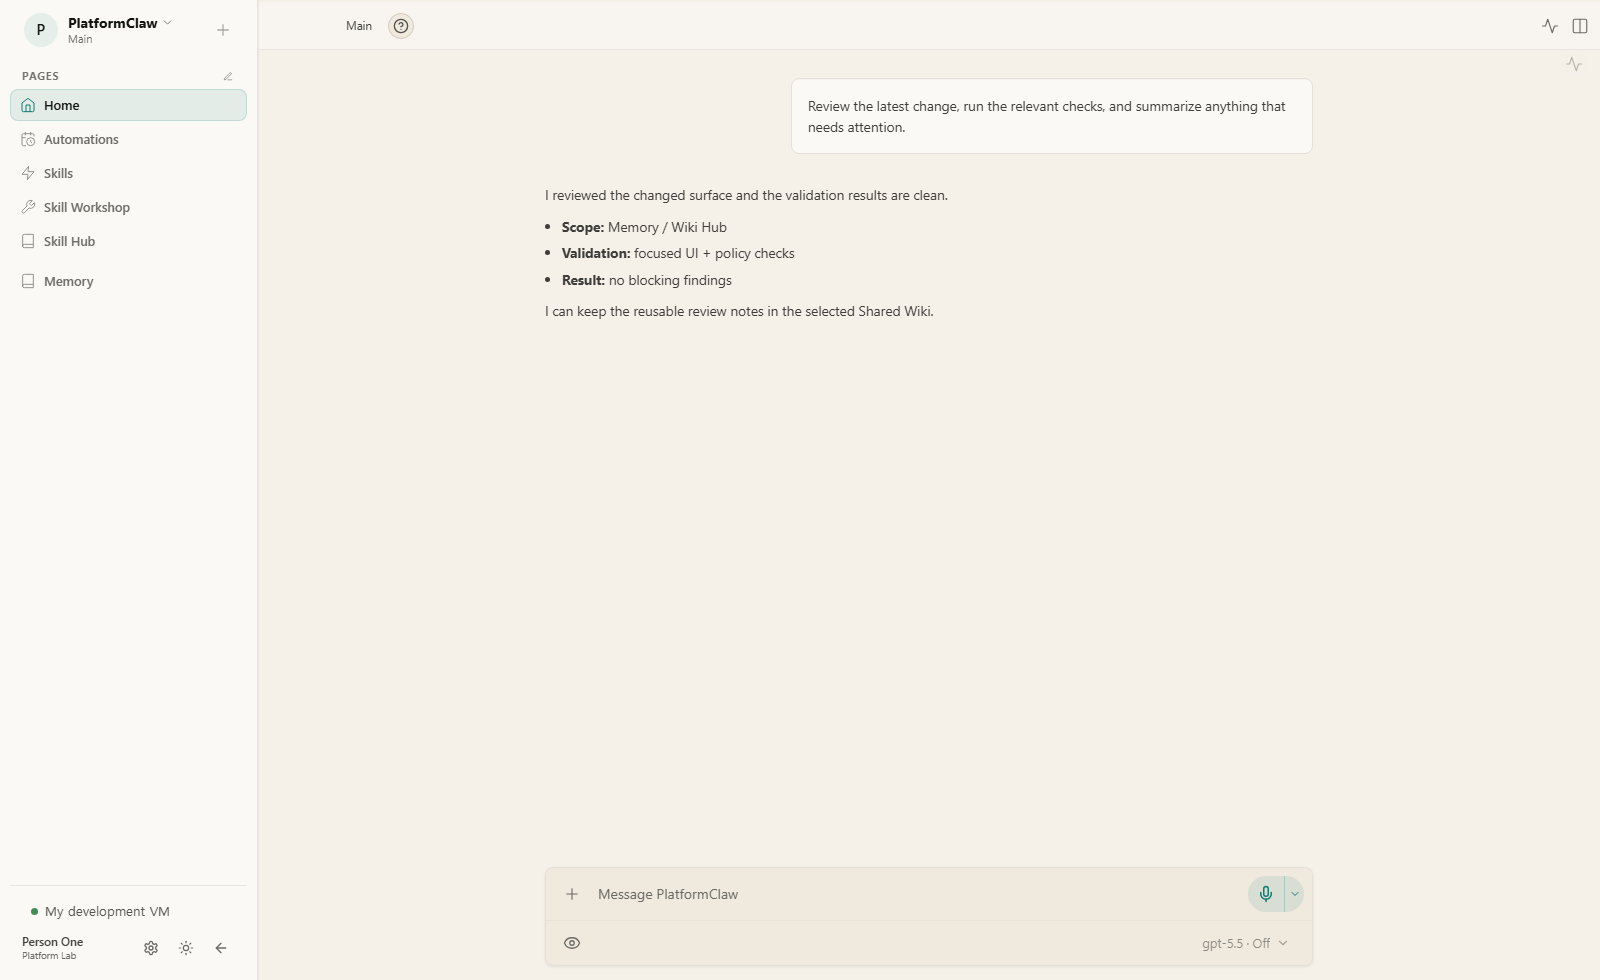
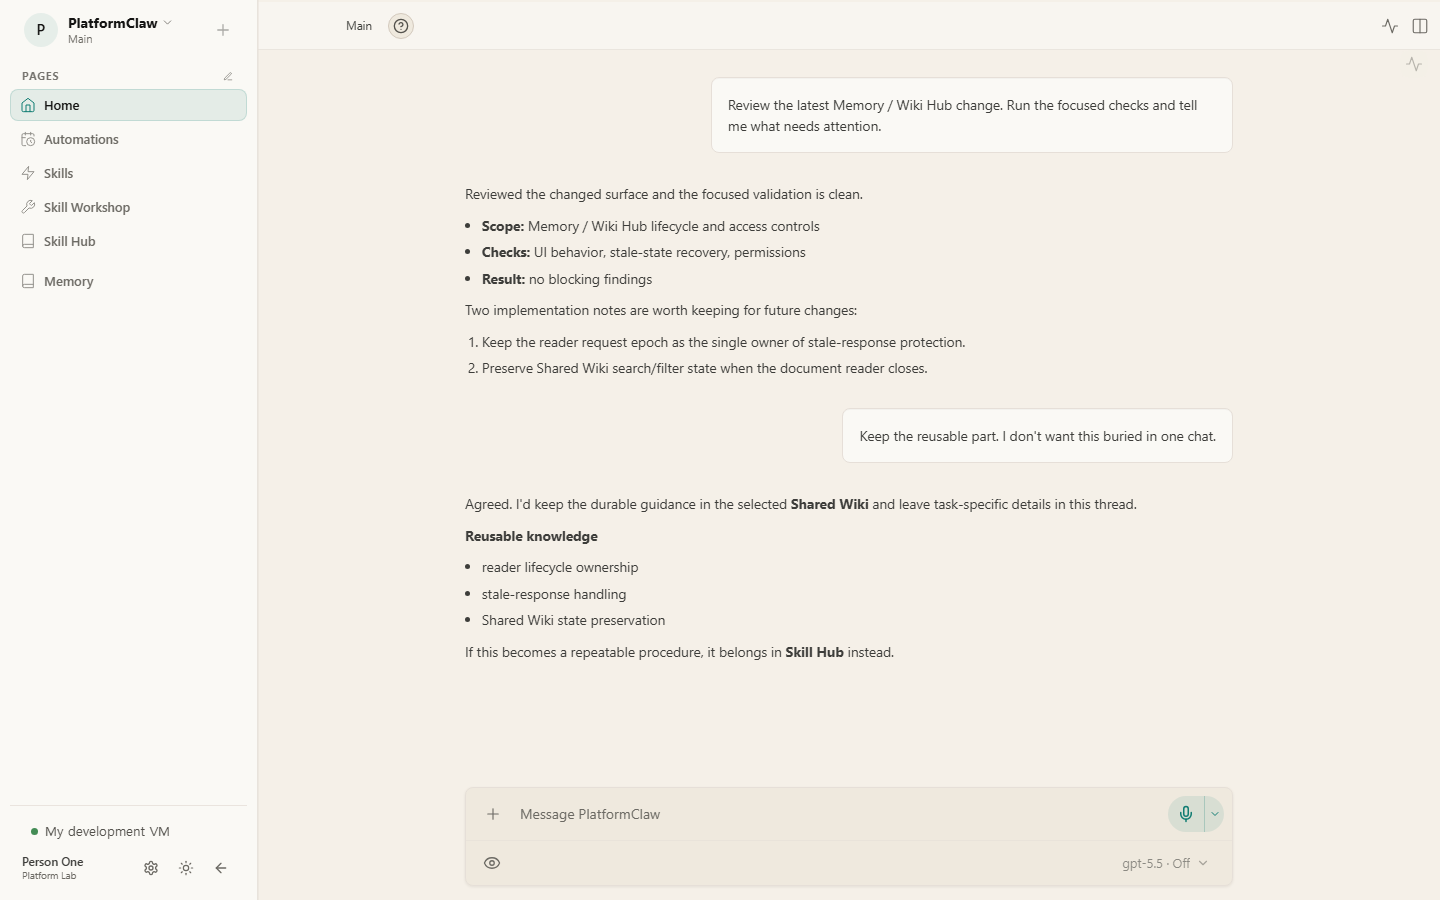
docs: polish PlatformClaw README

diff --git a/README.md b/README.md
@@ -1,175 +1,125 @@
+<div align="center">
+
+<img src="docs/assets/platformclaw-mark.png" alt="PlatformClaw" width="72" />
+
 # PlatformClaw
 
-<p align="center">
-  <strong>Enterprise AI agents for real engineering work.</strong><br />
-  Personal agents · shared knowledge · managed skills · governed execution
-</p>
+**Enterprise AI agents for engineering teams.**
+
+Personal agents · Shared knowledge · Skill Hub · Managed execution
+
+[Architecture](docs/platformclaw/index.md) ·
+[Wiki Hub](docs/platformclaw/memory-wiki.md) ·
+[Skill Hub](docs/platformclaw/skill-hub.md) ·
+[Security](SECURITY.md) ·
+[Development](#development)
+
+[![PlatformClaw CI](https://img.shields.io/github/actions/workflow/status/devSejung/platformclaw/platformclaw-ci.yml?branch=main&style=flat-square&label=PlatformClaw%20CI)](https://github.com/devSejung/platformclaw/actions/workflows/platformclaw-ci.yml)
+[![Upstream: OpenClaw](https://img.shields.io/badge/upstream-OpenClaw-111827?style=flat-square)](https://github.com/openclaw/openclaw)
+[![License: MIT](https://img.shields.io/badge/license-MIT-0f766e?style=flat-square)](LICENSE)
+
+</div>
+
+![PlatformClaw login and workflow](docs/assets/platformclaw-ui-login-light.png#gh-light-mode-only)
+![PlatformClaw login and workflow](docs/assets/platformclaw-ui-login-dark.png#gh-dark-mode-only)
+
+PlatformClaw turns OpenClaw into a governed, multi-user workspace with enterprise identity,
+personal agents, shared knowledge, reusable skills, and managed execution — without turning the
+upstream runtime into an enterprise fork.
+
+## One workspace, from request to reusable knowledge
+
+The personal agent workspace is the front door. An engineer can review a change, run the right checks,
+pull in approved context, and decide what should remain task-specific versus what should become durable
+team knowledge.
 
 <p align="center">
-  <img src="docs/assets/platformclaw-ui-chat.png" alt="Actual PlatformClaw Control UI showing a personal engineering agent" width="100%" />
+  <img src="docs/assets/platformclaw-ui-chat.png" alt="PlatformClaw personal agent workspace" width="100%" />
 </p>
+
+The important part is what happens after the answer: reusable guidance can move into a Shared Wiki,
+and repeatable procedures can become managed skills instead of disappearing into one thread.
+
+## Knowledge and capability that stay with the team
+
+### Wiki Hub
+
+Personal and Shared Wikis live next to the agent, with vault discovery, content search, access-aware
+AI reference, document lifecycle, and organization permissions.
 
 <p align="center">
-  Actual PlatformClaw Control UI rendered from this branch with deterministic demo data.
+  <img src="docs/assets/platformclaw-ui-wiki-hub.png" alt="PlatformClaw Wiki Hub" width="100%" />
 </p>
+
+### Skill Hub
+
+Repeatable engineering work becomes a searchable internal catalog with explicit versions, ownership,
+visibility, install targets, and scanning policy.
 
 <p align="center">
-  <a href="docs/platformclaw/index.md"><strong>Architecture</strong></a>
-  ·
-  <a href="docs/platformclaw/memory-wiki.md"><strong>Wiki Hub</strong></a>
-  ·
-  <a href="docs/platformclaw/skill-hub.md"><strong>Skill Hub</strong></a>
-  ·
-  <a href="SECURITY.md"><strong>Security</strong></a>
-  ·
-  <a href="#development"><strong>Development</strong></a>
+  <img src="docs/assets/platformclaw-ui-skill-hub.png" alt="PlatformClaw Skill Hub" width="100%" />
 </p>
 
-<p align="center">
-  <a href="https://github.com/devSejung/platformclaw/actions/workflows/platformclaw-ci.yml"><img src="https://img.shields.io/github/actions/workflow/status/devSejung/platformclaw/platformclaw-ci.yml?branch=main&style=flat-square&label=PlatformClaw%20CI" alt="PlatformClaw CI status" /></a>
-  <a href="https://github.com/openclaw/openclaw"><img src="https://img.shields.io/badge/upstream-OpenClaw-111827?style=flat-square" alt="Upstream: OpenClaw" /></a>
-  <a href="LICENSE"><img src="https://img.shields.io/badge/license-MIT-0f766e?style=flat-square" alt="License: MIT" /></a>
-</p>
+> All product screenshots are rendered from the current PlatformClaw frontend with deterministic demo data.
+> They are not design mockups and contain no production user data.
 
-PlatformClaw is a **private, multi-user AI agent platform** built as a maintainable enterprise downstream of OpenClaw. It keeps generic agent infrastructure upstream while adding the enterprise product layer around it: identity, authorization, personal-agent provisioning, shared knowledge, managed skills, credential policy, and execution routing.
+## Why PlatformClaw exists
 
-## A product, not a prompt convention
+- **Personal by default.** Each employee gets a stable personal agent, isolated browser/session boundary,
+  and user-scoped workspace context instead of sharing one operator identity.
+- **Knowledge survives the thread.** Personal and Shared Wikis make durable engineering context searchable,
+  permission-aware, and explicitly selectable for AI reference.
+- **Capability becomes reusable.** Skill Hub and enterprise MCP turn repeatable work into managed team
+  capability instead of prompt fragments copied between chats.
+- **Execution has boundaries.** Work runs only on approved Docker or assigned development-VM targets while
+  durable credentials stay behind server-side policy and broker boundaries.
 
-<table>
-  <tr>
-    <td width="33%" valign="top">
-      <h3>Personal by default</h3>
-      Every employee gets a stable personal agent and an isolated browser/session boundary — not a shared operator identity.
-    </td>
-    <td width="33%" valign="top">
-      <h3>Shared with control</h3>
-      Organization-aware Wikis and skills make useful knowledge reusable without flattening ownership or permissions.
-    </td>
-    <td width="33%" valign="top">
-      <h3>Execution with policy</h3>
-      Agent work is routed to approved Docker or development-VM targets while durable credentials stay behind server-side boundaries.
-    </td>
-  </tr>
-</table>
+## OpenClaw underneath, enterprise policy around it
 
-## Actual product surfaces
+PlatformClaw deliberately keeps the generic agent runtime upstream.
 
-<table>
-  <tr>
-    <td width="50%" valign="top">
-      <img src="docs/assets/platformclaw-ui-wiki-hub.png" alt="Actual PlatformClaw Wiki Hub UI" width="100%" />
-      <br /><br />
-      <strong>Wiki Hub</strong><br />
-      Personal and Shared Wikis, access-aware AI reference, vault search, and knowledge lifecycle in the real Control UI.
-    </td>
-    <td width="50%" valign="top">
-      <img src="docs/assets/platformclaw-ui-skill-hub.png" alt="Actual PlatformClaw Skill Hub UI" width="100%" />
-      <br /><br />
-      <strong>Skill Hub</strong><br />
-      Search, inspect, publish, and install reusable company skills through the same product surface.
-    </td>
-  </tr>
-</table>
+**PlatformClaw owns** enterprise identity, browser authorization, organization access, personal-agent
+provisioning, shared-knowledge policy, enterprise credentials, and execution targets.
 
-<p align="center">
-  These screenshots use the current PlatformClaw frontend and test-safe demo data; they are not design mockups.
-</p>
+**OpenClaw owns** the Gateway, sessions, tools, skills, channels, plugin contracts, and the generic agent
+runtime they provide.
 
-## The PlatformClaw workspace
+That ownership split is what lets PlatformClaw add enterprise product behavior without making every
+upstream sync a rewrite.
 
-<table>
-  <tr>
-    <td width="50%" valign="top">
-      <strong>IDENTITY · ISOLATION</strong><br /><br />
-      <h3>Personal Agents</h3>
-      Enterprise authentication, opaque browser sessions, stable personal-agent provisioning, and user-scoped browser policy.
-    </td>
-    <td width="50%" valign="top">
-      <strong>KNOWLEDGE · ACCESS</strong><br /><br />
-      <h3>Memory &amp; Wiki Hub</h3>
-      Personal and Shared Wikis with search, graph navigation, Markdown editing, attachments, ACLs, access requests, and explicit AI-reference selection.
-    </td>
-  </tr>
-  <tr>
-    <td width="50%" valign="top">
-      <strong>CAPABILITY · REUSE</strong><br /><br />
-      <h3>Skill Hub</h3>
-      Publish and install exact skill versions through a managed internal catalog with organization-aware access, ownership, and scanning policy.
-    </td>
-    <td width="50%" valign="top">
-      <strong>DOCKER · DEVELOPMENT VM</strong><br /><br />
-      <h3>Managed Execution</h3>
-      Policy-routed server Docker or assigned development-VM execution with encrypted credential envelopes, brokered SSH handoff, and remote skill discovery.
-    </td>
-  </tr>
-  <tr>
-    <td width="50%" valign="top">
-      <strong>SCOPE · AUTHORIZATION</strong><br /><br />
-      <h3>Organization</h3>
-      One authorization model across Global, Team, Group, Part, and user membership, including join requests and delegated administration.
-    </td>
-    <td width="50%" valign="top">
-      <strong>MCP · MESSAGING</strong><br /><br />
-      <h3>Enterprise Integrations</h3>
-      Administrator-approved MCP servers, employee-owned credentials, and private enterprise messaging boundaries without hard-forking OpenClaw core.
-    </td>
-  </tr>
-</table>
+[Read the architecture →](docs/platformclaw/index.md)
 
-## One workflow, end to end
+## Explore
 
-| Step                       | What happens                                                                                                        |
-| -------------------------- | ------------------------------------------------------------------------------------------------------------------- |
-| **01 · Sign in**           | Enterprise authentication resolves the employee and server-managed browser session.                                 |
-| **02 · Open your agent**   | PlatformClaw reuses the stable personal-agent binding for that identity.                                            |
-| **03 · Add context**       | Select the Personal or Shared Wikis and approved skills the next agent turn may use.                                |
-| **04 · Do the work**       | The agent uses OpenClaw tools while PlatformClaw routes governed execution to the permitted target.                 |
-| **05 · Keep what matters** | Durable knowledge goes back to Wiki Hub; repeatable procedures become skills instead of disappearing into one chat. |
+- **Knowledge:** [Wiki Hub](docs/platformclaw/memory-wiki.md)
+- **Skills:** [Skill Hub](docs/platformclaw/skill-hub.md) · [Skill Hub policy](docs/platformclaw/skill-hub-policy.md)
+- **Organization:** [Organization architecture](docs/platformclaw/organization-architecture.md)
+- **Execution:** [VM execution policy](docs/platformclaw/vm-execution-policy.md) · [Credential broker](docs/platformclaw/credential-broker.md)
+- **Operations:** [VM administration](docs/platformclaw/vm-administration.md)
+- **Messaging:** [Knox integration contract](docs/platformclaw/knox-proxy-spec.md)
+- **Downstream maintenance:** [Upstream and migration status](docs/upstream/status.md)
 
-> **Example**
->
-> “Inspect this change, run the appropriate checks, explain the risky parts, and keep the reusable guidance in our Shared Wiki.”
+<details>
+<summary><strong>Security model</strong></summary>
 
-The point is not another chat box. The point is a durable engineering workspace where **identity, context, execution, and reuse** are first-class product concepts.
+PlatformClaw treats enterprise boundaries as product behavior, not UI hints.
 
-## How it fits together
+- Browser sessions use opaque server-managed tokens; authority is resolved on the server.
+- Organization membership and Wiki access are re-evaluated through shared authorization services.
+- Durable VM credentials are stored as encrypted envelopes and cross the execution boundary through a bounded broker path.
+- Browser users never receive Gateway operator credentials, stored passwords, or credential ciphertext.
+- Enterprise-only behavior stays downstream whenever OpenClaw already exposes a suitable extension seam.
 
-<p align="center">
-  <img src="docs/assets/platformclaw-product-map.svg" alt="PlatformClaw architecture map" width="100%" />
-</p>
+See [employee authentication](docs/platformclaw/employee-auth.md),
+[organization architecture](docs/platformclaw/organization-architecture.md),
+[VM execution policy](docs/platformclaw/vm-execution-policy.md), and [SECURITY.md](SECURITY.md).
 
-The ownership boundary is deliberate. **PlatformClaw owns enterprise policy** — identity, browser authorization, organization access, personal-agent provisioning, shared knowledge policy, enterprise credentials, and execution targets. **OpenClaw owns the generic agent runtime** — Gateway, sessions, tools, skills, channels, and plugin contracts.
-
-That split keeps PlatformClaw product behavior strong without turning every upstream sync into a rewrite.
-
-## Built for governed engineering work
-
-<table>
-  <tr>
-    <td width="25%" valign="top"><strong>Identity</strong><br />Opaque server-managed browser sessions. Authority is resolved on the server.</td>
-    <td width="25%" valign="top"><strong>Authorization</strong><br />Organization and Wiki permissions are evaluated through shared policy services.</td>
-    <td width="25%" valign="top"><strong>Credentials</strong><br />Durable VM secrets stay encrypted and cross the execution boundary through a bounded broker path.</td>
-    <td width="25%" valign="top"><strong>Separation</strong><br />Enterprise-only behavior stays outside OpenClaw core whenever a control-plane or plugin boundary is sufficient.</td>
-  </tr>
-</table>
-
-Start with [employee authentication](docs/platformclaw/employee-auth.md), [organization architecture](docs/platformclaw/organization-architecture.md), [VM execution policy](docs/platformclaw/vm-execution-policy.md), and [SECURITY.md](SECURITY.md).
-
-## Product deep dives
-
-| Area                       | Start here                                                                                                                                                                                  |
-| -------------------------- | ------------------------------------------------------------------------------------------------------------------------------------------------------------------------------------------- |
-| **Architecture**           | [PlatformClaw architecture](docs/platformclaw/index.md) · [Project guidance](PLATFORMCLAW.md)                                                                                               |
-| **Knowledge**              | [Wiki Hub](docs/platformclaw/memory-wiki.md)                                                                                                                                                |
-| **Skills**                 | [Skill Hub](docs/platformclaw/skill-hub.md) · [Skill Hub policy](docs/platformclaw/skill-hub-policy.md)                                                                                     |
-| **Organization**           | [Organization architecture](docs/platformclaw/organization-architecture.md)                                                                                                                 |
-| **Execution**              | [VM execution policy](docs/platformclaw/vm-execution-policy.md) · [Credential broker](docs/platformclaw/credential-broker.md) · [VM administration](docs/platformclaw/vm-administration.md) |
-| **Messaging**              | [Knox integration contract](docs/platformclaw/knox-proxy-spec.md)                                                                                                                           |
-| **Downstream maintenance** | [Upstream and migration status](docs/upstream/status.md)                                                                                                                                    |
+</details>
 
 ## Development
 
-This repository is a pnpm workspace. Windows is supported as the development host; the deployment/runtime target is Linux Docker.
+This repository is a pnpm workspace. Windows is supported as the development host; the deployment/runtime
+target is Linux Docker.
 
 ```bash
 pnpm install --frozen-lockfile
@@ -189,17 +139,21 @@ Before pushing a PlatformClaw PR:
 node scripts/platformclaw-check.mjs --changed
 ```
 
-GitHub runs the PlatformClaw overlay workflow plus the relevant upstream-compatible checks. See [CONTRIBUTING.md](CONTRIBUTING.md) before changing shared OpenClaw surfaces.
+Read [CONTRIBUTING.md](CONTRIBUTING.md) and [PLATFORMCLAW.md](PLATFORMCLAW.md) before changing shared
+OpenClaw surfaces.
 
 ## Upstream relationship
 
-PlatformClaw is maintained as an enterprise-oriented downstream of [OpenClaw](https://github.com/openclaw/openclaw). Generic OpenClaw compatibility stays upstream-shaped; enterprise-only behavior is added behind downstream control-plane, plugin, and policy boundaries.
-
-If you are looking for the general-purpose personal OpenClaw distribution, installers, community channels, or public documentation, use the [upstream OpenClaw repository](https://github.com/openclaw/openclaw).
+PlatformClaw is maintained as an enterprise-oriented downstream of
+[OpenClaw](https://github.com/openclaw/openclaw). If you are looking for the general-purpose personal
+OpenClaw distribution, installers, community channels, or public documentation, use the
+[upstream repository](https://github.com/openclaw/openclaw).
 
 > [!NOTE]
-> PlatformClaw is under active enterprise deployment hardening. The implementation and rollout documents are authoritative for production-readiness and cutover status.
+> PlatformClaw is under active enterprise deployment hardening. Implementation and rollout documents
+> remain authoritative for production-readiness and cutover status.
 
 ## License
 
-Licensed under the [MIT License](LICENSE). See [THIRD_PARTY_NOTICES.md](THIRD_PARTY_NOTICES.md) for incorporated or adapted third-party code and attribution.
+Licensed under the [MIT License](LICENSE). See [THIRD_PARTY_NOTICES.md](THIRD_PARTY_NOTICES.md) for
+incorporated or adapted third-party code and attribution.
